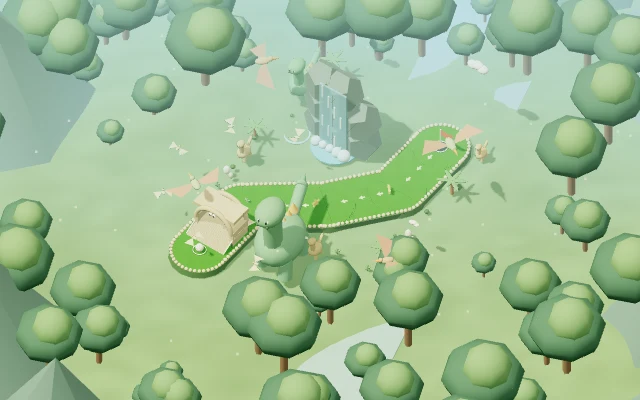
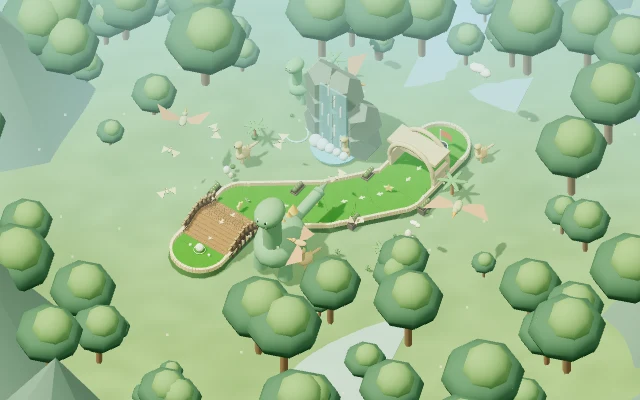
Refine course construction and prevent sideways bridge traversal

diff --git a/public/physics.js b/public/physics.js
@@ -3,27 +3,27 @@ export function movingBumpers(level,tick=0){
  return [...level.bumpers,...level.movers.map((m,i)=>({...m,x:m.x+Math.sin(tick*.018+i)*m.travel,y:m.y+Math.sin(tick*.011+i)*12}))];
 }
 export function nearestFairway(level,x,y){let best={distance:Infinity};for(let i=0;i<(level.path?.length||0)-1;i++){const a=level.path[i],b=level.path[i+1],dx=b.x-a.x,dy=b.y-a.y,t=Math.max(0,Math.min(1,((x-a.x)*dx+(y-a.y)*dy)/(dx*dx+dy*dy)));const px=a.x+t*dx,py=a.y+t*dy,distance=Math.hypot(x-px,y-py);if(distance<best.distance)best={x:px,y:py,distance,index:i,t,dx,dy}}return best}
-export function groundHeight(level,x,y){let height=0;for(const ramp of level.ramps||[]){if(x>=ramp.x&&x<=ramp.x+ramp.w&&y>=ramp.y&&y<=ramp.y+ramp.h)height=Math.max(height,Math.sin((y-ramp.y)/ramp.h*Math.PI)*ramp.height)}return height}
+export function groundHeight(level,x,y){let height=0;for(const ramp of level.ramps||[]){if(x>=ramp.x&&x<=ramp.x+ramp.w&&y>=ramp.y&&y<=ramp.y+ramp.h)height=Math.max(height,Math.sin((y-ramp.y)/ramp.h*Math.PI)**2*ramp.height)}return height}
 function clearToCup(ball,level){for(let i=1;i<=12;i++){const f=i/12,x=ball.x+(level.hole.x-ball.x)*f,y=ball.y+(level.hole.y-ball.y)*f;if(level.path&&nearestFairway(level,x,y).distance>level.width/2-12)return false;for(const w of level.walls)if(x>w.x-11&&x<w.x+w.w+11&&y>w.y-11&&y<w.y+w.h+11&&groundHeight(level,x,y)<30)return false}return true}
 export function advanceBall(ball,level,tick){
  const events=[];ball.portalCooldown=Math.max(0,(ball.portalCooldown||0)-1);ball.boostCooldown=Math.max(0,(ball.boostCooldown||0)-1);
  const speed=Math.hypot(ball.vx,ball.vy),steps=Math.max(1,Math.ceil(speed/4));
  for(let i=0;i<steps;i++){
   ball.x+=ball.vx/steps;ball.y+=ball.vy/steps;
-  if(level.path){const nearest=nearestFairway(level,ball.x,ball.y),limit=level.width/2-11;if(nearest.distance>limit){const nx=(ball.x-nearest.x)/nearest.distance,ny=(ball.y-nearest.y)/nearest.distance;ball.x=nearest.x+nx*limit;ball.y=nearest.y+ny*limit;const dot=ball.vx*nx+ball.vy*ny;if(dot>0){ball.vx-=1.65*dot*nx;ball.vy-=1.65*dot*ny;events.push('bounce')}}}
+  if(level.path){const nearest=nearestFairway(level,ball.x,ball.y),limit=level.width/2-12;if(nearest.distance>limit){const nx=(ball.x-nearest.x)/nearest.distance,ny=(ball.y-nearest.y)/nearest.distance;ball.x=nearest.x+nx*limit;ball.y=nearest.y+ny*limit;const dot=ball.vx*nx+ball.vy*ny;if(dot>0){ball.vx-=1.65*dot*nx;ball.vy-=1.65*dot*ny;events.push('bounce')}}}
   else{const bounds=level.bounds||{minX:49,maxX:451,minY:49,maxY:531};if(ball.x<bounds.minX){ball.x=bounds.minX;ball.vx=Math.abs(ball.vx)*.8}if(ball.x>bounds.maxX){ball.x=bounds.maxX;ball.vx=-Math.abs(ball.vx)*.8}if(ball.y<bounds.minY){ball.y=bounds.minY;ball.vy=Math.abs(ball.vy)*.8}if(ball.y>bounds.maxY){ball.y=bounds.maxY;ball.vy=-Math.abs(ball.vy)*.8}}
-  for(const w of level.walls){
-   const nx=Math.max(w.x,Math.min(ball.x,w.x+w.w)),ny=Math.max(w.y,Math.min(ball.y,w.y+w.h));let dx=ball.x-nx,dy=ball.y-ny,d=Math.hypot(dx,dy);
-   if(d<10&&groundHeight(level,ball.x,ball.y)<(w.height||25)+8){if(d===0){const side=[{d:Math.abs(ball.x-w.x),x:-1,y:0},{d:Math.abs(ball.x-w.x-w.w),x:1,y:0},{d:Math.abs(ball.y-w.y),x:0,y:-1},{d:Math.abs(ball.y-w.y-w.h),x:0,y:1}].sort((a,b)=>a.d-b.d)[0];dx=side.x;dy=side.y;d=1}
-    const ux=dx/d,uy=dy/d,dot=ball.vx*ux+ball.vy*uy;ball.x=nx+ux*10.1;ball.y=ny+uy*10.1;
+  for(const w of [...level.walls,...(level.ramps||[]).flatMap(r=>[{x:r.x-6,y:r.y,w:6,h:r.h,height:Infinity},{x:r.x+r.w,y:r.y,w:6,h:r.h,height:Infinity}])]){
+   let nx=Math.max(w.x,Math.min(ball.x,w.x+w.w)),ny=Math.max(w.y,Math.min(ball.y,w.y+w.h));let dx=ball.x-nx,dy=ball.y-ny,d=Math.hypot(dx,dy);
+   if(d<12&&groundHeight(level,ball.x,ball.y)<(w.height||25)+8){if(d===0){const side=[{d:Math.abs(ball.x-w.x),x:-1,y:0},{d:Math.abs(ball.x-w.x-w.w),x:1,y:0},{d:Math.abs(ball.y-w.y),x:0,y:-1},{d:Math.abs(ball.y-w.y-w.h),x:0,y:1}].sort((a,b)=>a.d-b.d)[0];dx=side.x;dy=side.y;d=1;nx=side.x<0?w.x:side.x>0?w.x+w.w:ball.x;ny=side.y<0?w.y:side.y>0?w.y+w.h:ball.y}
+    const ux=dx/d,uy=dy/d,dot=ball.vx*ux+ball.vy*uy;ball.x=nx+ux*12.1;ball.y=ny+uy*12.1;
     if(dot<0){ball.vx-=1.8*dot*ux;ball.vy-=1.8*dot*uy;events.push('bounce')}
    }
   }
   for(const o of movingBumpers(level,tick)){
    const dx=ball.x-o.x,dy=ball.y-o.y,d=Math.hypot(dx,dy);
-   if(d<o.r+10){const ux=d?dx/d:1,uy=d?dy/d:0,dot=ball.vx*ux+ball.vy*uy;ball.x=o.x+ux*(o.r+10.1);ball.y=o.y+uy*(o.r+10.1);if(dot<0){ball.vx-=1.95*dot*ux;ball.vy-=1.95*dot*uy;events.push('boing')}}
+   if(d<o.r+12){const ux=d?dx/d:1,uy=d?dy/d:0,dot=ball.vx*ux+ball.vy*uy;ball.x=o.x+ux*(o.r+12.1);ball.y=o.y+uy*(o.r+12.1);if(dot<0){ball.vx-=1.95*dot*ux;ball.vy-=1.95*dot*uy;events.push('boing')}}
   }
-  for(const spinner of level.spinners||[]){const a=tick*spinner.speed,ux=Math.cos(a),uy=Math.sin(a),dx=ball.x-spinner.x,dy=ball.y-spinner.y,along=Math.max(-spinner.length,Math.min(spinner.length,dx*ux+dy*uy));const nx=spinner.x+along*ux,ny=spinner.y+along*uy,ex=ball.x-nx,ey=ball.y-ny,d=Math.hypot(ex,ey);if(d<10+spinner.r){const normalX=d?ex/d:-uy,normalY=d?ey/d:ux,dot=ball.vx*normalX+ball.vy*normalY;ball.x=nx+normalX*(11+spinner.r);ball.y=ny+normalY*(11+spinner.r);if(dot<0){ball.vx-=1.5*dot*normalX;ball.vy-=1.5*dot*normalY;events.push('boing')}}}
+  for(const spinner of level.spinners||[]){const a=tick*spinner.speed,ux=Math.cos(a),uy=Math.sin(a),dx=ball.x-spinner.x,dy=ball.y-spinner.y,along=Math.max(-spinner.length,Math.min(spinner.length,dx*ux+dy*uy));const nx=spinner.x+along*ux,ny=spinner.y+along*uy,ex=ball.x-nx,ey=ball.y-ny,d=Math.hypot(ex,ey);if(d<12+spinner.r){const normalX=d?ex/d:-uy,normalY=d?ey/d:ux,dot=ball.vx*normalX+ball.vy*normalY;ball.x=nx+normalX*(12.1+spinner.r);ball.y=ny+normalY*(12.1+spinner.r);if(dot<0){ball.vx-=1.5*dot*normalX;ball.vy-=1.5*dot*normalY;events.push('boing')}}}
   for(const [index,pad] of level.pads.entries()){ball.hitPads??=[];if(!ball.hitPads.includes(index)&&!ball.boostCooldown&&Math.hypot(ball.x-pad.x,ball.y-pad.y)<pad.r){ball.vx=pad.vx;ball.vy=pad.vy;ball.boostCooldown=90;ball.hitPads.push(index);events.push('boost')}}
   if(!ball.portalCooldown&&level.portals.length){for(let n=0;n<level.portals.length;n++){const p=level.portals[n];if(Math.hypot(ball.x-p.x,ball.y-p.y)<19){const exit=level.portals[(n+1)%level.portals.length];ball.x=exit.x+27;ball.y=exit.y;ball.portalCooldown=100;events.push('portal');break}}}
   if(Math.hypot(ball.x-level.hole.x,ball.y-level.hole.y)<(level.easy?24:18)&&Math.hypot(ball.vx,ball.vy)<(level.easy?12:9)){ball.x=level.hole.x;ball.y=level.hole.y;ball.vx=ball.vy=0;return{done:true,stopped:true,events}}

diff --git a/public/world-environments.js b/public/world-environments.js
@@ -1,5 +1,5 @@
 import * as THREE from './vendor/three.js';
-import {nearestFairway} from './physics.js';
+import {nearestFairway,groundHeight} from './physics.js';
 import {pointAlong,courses} from './courses.js';
 const rngFor=seed=>()=>{seed|=0;seed=seed+0x6D2B79F5|0;let t=Math.imul(seed^seed>>>15,1|seed);t=t+Math.imul(t^t>>>7,61|t)^t;return((t^t>>>14)>>>0)/4294967296};
 function position(level,f,side=0){const p=pointAlong(level.path,f),near=nearestFairway(level,p.x,p.y),d=Math.hypot(near.dx,near.dy);return{x:p.x-near.dy/d*side-250,z:p.y+near.dx/d*side-290}}
@@ -11,12 +11,17 @@ export function buildFairway(w,level){
  for(let i=0;i<level.path.length-1;i++){
   const a=level.path[i],b=level.path[i+1],length=Math.hypot(b.x-a.x,b.y-a.y),angle=Math.atan2(b.x-a.x,b.y-a.y),g=w.group((a.x+b.x)/2-250,0,(a.y+b.y)/2-290);g.rotation.y=angle;
   w.box(0,-5,0,level.width+8,18,length,w.palette[2],g);const top=w.box(0,3,0,level.width,6,length,turf,g);top.material=grass;
-  for(let s=0;s<=length;s+=13)for(const side of [-1,1]){const t=s/length,x=a.x+(b.x-a.x)*t+(b.y-a.y)/length*level.width/2*side,y=a.y+(b.y-a.y)*t-(b.x-a.x)/length*level.width/2*side;if(nearestFairway(level,x,y).distance>level.width/2-2)stones.push({x:x-250,y:9,z:y-290,s:1})}
+  for(let s=0;s<=length;s+=9)for(const side of [-1,1]){const t=s/length,x=a.x+(b.x-a.x)*t+(b.y-a.y)/length*level.width/2*side,y=a.y+(b.y-a.y)*t-(b.x-a.x)/length*level.width/2*side;if(nearestFairway(level,x,y).distance>level.width/2-2)stones.push({x:x-250,y:11,z:y-290,rot:angle,sx:1,sy:1,sz:1})}
  }
- for(const p of level.path){w.cylinder(p.x-250,-4,p.y-290,level.width/2+4,level.width/2+8,18,w.palette[2]);const top=w.cylinder(p.x-250,3,p.y-290,level.width/2,level.width/2,6,turf);top.material=grass;for(let i=0;i<40;i++){const a=i*Math.PI/20,x=p.x+Math.cos(a)*level.width/2,y=p.y+Math.sin(a)*level.width/2;if(nearestFairway(level,x,y).distance>level.width/2-2)stones.push({x:x-250,y:9,z:y-290,s:1})}}
- instances(w,new THREE.SphereGeometry(5.5,8,6),edge,stones);
+ for(const p of level.path){w.cylinder(p.x-250,-4,p.y-290,level.width/2+4,level.width/2+8,18,w.palette[2]);const top=w.cylinder(p.x-250,3,p.y-290,level.width/2,level.width/2,6,turf);top.material=grass;for(let i=0;i<56;i++){const a=i*Math.PI/28,x=p.x+Math.cos(a)*level.width/2,y=p.y+Math.sin(a)*level.width/2;if(nearestFairway(level,x,y).distance>level.width/2-2)stones.push({x:x-250,y:11,z:y-290,rot:-a,sx:1,sy:1,sz:1})}}
+ instances(w,new THREE.BoxGeometry(8,14,9),edge,stones);
+ // Recessed tee markers, distance plates, and planting at each bend.
+ for(const [index,p] of level.path.entries()){
+  if(index===0)for(const side of [-1,1])w.cylinder(p.x+side*32-250,8,p.y-290,4,4,4,'#f3eee0',w.root,12);
+  if(index>0&&index<level.path.length-1){const g=w.group(p.x-250,0,p.y-290);for(const side of [-1,1]){w.box(side*(level.width/2+18),1,0,22,18,44,'#716b5d',g);w.box(side*(level.width/2+18),11,0,18,3,40,'#483e2d',g);for(let j=0;j<4;j++){w.sphere(side*(level.width/2+18),17,j*9-14,7,'#66804c',g);w.sphere(side*(level.width/2+18),23,j*9-14,2,index%2?'#e5c36c':'#b78da9',g)}}}
+ }
  // Ground arrows mark the next bend, with no compulsory shortcut or narrow jump.
- for(let i=1;i<level.path.length;i++){const a=level.path[i-1],b=level.path[i],dx=b.x-a.x,dy=b.y-a.y,length=Math.hypot(dx,dy);for(let f=.25;f<.9;f+=.25){const g=w.group(a.x+dx*f-250,7,a.y+dy*f-290);g.rotation.y=Math.atan2(dx,dy);const shape=new THREE.Shape();shape.moveTo(0,-9);shape.lineTo(-8,3);shape.lineTo(-3,3);shape.lineTo(-3,11);shape.lineTo(3,11);shape.lineTo(3,3);shape.lineTo(8,3);shape.closePath();const arrow=w.mesh(new THREE.ShapeGeometry(shape),'#f4e6a4',g);arrow.rotation.x=-Math.PI/2;arrow.rotation.z=Math.PI;arrow.castShadow=false}}
+ for(let i=1;i<level.path.length;i++){const a=level.path[i-1],b=level.path[i],dx=b.x-a.x,dy=b.y-a.y,length=Math.hypot(dx,dy);for(let f=.25;f<.9;f+=.25){const g=w.group(a.x+dx*f-250,7+groundHeight(level,a.x+dx*f,a.y+dy*f),a.y+dy*f-290);g.rotation.y=Math.atan2(dx,dy);const shape=new THREE.Shape();shape.moveTo(0,-9);shape.lineTo(-8,3);shape.lineTo(-3,3);shape.lineTo(-3,11);shape.lineTo(3,11);shape.lineTo(3,3);shape.lineTo(8,3);shape.closePath();const arrow=w.mesh(new THREE.ShapeGeometry(shape),'#f4e6a4',g);arrow.rotation.x=-Math.PI/2;arrow.rotation.z=Math.PI;arrow.castShadow=false}}
 }
 function terrain(w,level,id){
  const rnd=rngFor(id*541+77),snow=id===13,space=id===7,night=[2,7,11].includes(id);const ocean=[4,9].includes(id);const base=snow?'#dce9ed':id===6?'#846f65':night?'#5c6273':ocean?'#82bec0':'#7ca36b';

diff --git a/public/world3d.js b/public/world3d.js
@@ -47,8 +47,21 @@ export class World3D {
  }
  buildCourseFeatures(level,id){
   // A wide, arched bridge is both an easier route over walls and a real 3D surface.
-  for(const ramp of level.ramps||[]){const positions=[],indices=[];const segments=20;for(let i=0;i<=segments;i++){const y=ramp.y+ramp.h*i/segments,h=6+Math.sin(i/segments*Math.PI)*ramp.height;positions.push(ramp.x-250,h,y-290,ramp.x+ramp.w-250,h,y-290);if(i<segments){const a=i*2;indices.push(a,a+1,a+2,a+1,a+3,a+2)}}const geo=new THREE.BufferGeometry();geo.setAttribute('position',new THREE.Float32BufferAttribute(positions,3));geo.setIndex(indices);geo.computeVertexNormals();const m=this.mesh(geo,id===13?'#e5f3ee':id===1||id===8?'#e8b85f':'#e9d5a0');m.material.side=THREE.DoubleSide;for(const side of [0,1])for(let i=0;i<segments;i++){const y0=ramp.y+ramp.h*i/segments,y1=ramp.y+ramp.h*(i+1)/segments,h0=10+Math.sin(i/segments*Math.PI)*ramp.height,h1=10+Math.sin((i+1)/segments*Math.PI)*ramp.height,x=ramp.x+side*ramp.w-250;this.link([x,h0,y0-290],[x,h1,y1-290],2,'#fff0c5')}for(const y of [ramp.y+ramp.h*.25,ramp.y+ramp.h*.75])for(const side of [0,1]){const h=groundHeight(level,ramp.x+1,y);this.cylinder(ramp.x+side*ramp.w-250,h/2,y-290,3,3,h,this.palette[2],this.root,8)}}
-  for(const tunnel of level.tunnels||[]){const g=this.group(tunnel.x+tunnel.w/2-250,0,tunnel.y+tunnel.h/2-290),color=id===2?'#a495c1':id===13?'#e3f2ed':id===9?'#a5cfc2':'#d4c394';for(const side of [-1,1])this.box(side*(tunnel.w/2-5),28,0,12,56,tunnel.h,color,g);const arch=this.mesh(new THREE.TorusGeometry(tunnel.w/2-5,7,8,24,Math.PI),color,g);arch.position.set(0,50,tunnel.h/2);const back=arch.clone();back.geometry=arch.geometry;back.position.z=-tunnel.h/2;g.add(back);this.box(0,tunnel.height+24,0,tunnel.w+8,10,tunnel.h,color,g);this.eyes(g,0,tunnel.height+23,tunnel.h/2+5,5);this.friendly(g,id===2?'SPOOKY SHORTCUT!':'THROUGH THE TUNNEL!')}
+  for(const r of level.ramps||[]){
+   const segments=40,positions=[],indices=[],height=t=>6+Math.sin(t*Math.PI)**2*r.height;
+   for(let i=0;i<=segments;i++){const t=i/segments;positions.push(r.x-250,height(t),r.y+r.h*t-290,r.x+r.w-250,height(t),r.y+r.h*t-290);if(i<segments){const a=i*2;indices.push(a,a+2,a+1,a+1,a+2,a+3)}}
+   const geo=new THREE.BufferGeometry();geo.setAttribute('position',new THREE.Float32BufferAttribute(positions,3));geo.setIndex(indices);geo.computeVertexNormals();this.mesh(geo,'#9a744b',this.root,{side:THREE.DoubleSide,roughness:.92});
+   for(let i=0;i<segments;i++){const t=(i+.5)/segments,y=r.y+r.h*t-290,h=height(t),slope=Math.atan(Math.PI*r.height/r.h*Math.sin(2*Math.PI*t));
+    const plank=this.box(r.x+r.w/2-250,h-1.5,y,r.w,3,r.h/segments-.5,i%3?'#aa8456':'#967147');plank.rotation.x=slope;
+    for(const side of [0,1]){const x=r.x+side*r.w-250,y0=r.y+r.h*i/segments-290,y1=r.y+r.h*(i+1)/segments-290;
+     this.link([x,height(i/segments)+5,y0],[x,height((i+1)/segments)+5,y1],5,'#62533f');
+     this.link([x,height(i/segments)+28,y0],[x,height((i+1)/segments)+28,y1],3,'#bb9b6c');
+     if(i%5===0){this.box(x,h+15,y,6,34,6,'#796044');this.sphere(x,h+33,y,4,'#b7a17c');this.cylinder(x,h/2-3,y,5,6,h+6,'#66523c',this.root,8)}
+    }
+   }
+   for(const t of [.28,.72])this.box(r.x+r.w/2-250,height(t)-9,r.y+r.h*t-290,r.w+12,12,9,'#66523c');
+  }
+  for(const tunnel of level.tunnels||[]){const g=this.group(tunnel.x+tunnel.w/2-250,0,tunnel.y+tunnel.h/2-290),color=id===2?'#a495c1':id===13?'#e3f2ed':id===9?'#a5cfc2':'#d4c394';for(const side of [-1,1])this.box(side*(tunnel.w/2-5),28,0,12,56,tunnel.h,color,g);const arch=this.mesh(new THREE.TorusGeometry(tunnel.w/2-5,7,8,24,Math.PI),color,g);arch.position.set(0,50,tunnel.h/2);const back=arch.clone();back.geometry=arch.geometry;back.position.z=-tunnel.h/2;g.add(back);this.box(0,tunnel.height+24,0,tunnel.w+8,10,tunnel.h,color,g);this.friendly(g,id===2?'SPOOKY SHORTCUT!':'THROUGH THE TUNNEL!')}
   this.spinnerMeshes=(level.spinners||[]).map(spinner=>{this.cylinder(spinner.x-250,18,spinner.y-290,8,11,26,'#dcc38e');const g=this.group(spinner.x-250,19,spinner.y-290);this.box(0,0,0,spinner.length*2,16,spinner.r*2,id===3?'#bb9ad4':id===5?'#e6a0b7':'#eeb775',g);this.sphere(0,8,0,9,'#fff1c4',g);for(const side of [-1,1])this.sphere(side*(spinner.length-4),0,0,9,'#fff0cf',g);return g});
 
  }

diff --git a/server.js b/server.js
@@ -18,7 +18,7 @@ io.on('connection',socket=>{
  });
  socket.on('begin',()=>{const r=rooms.get(socket.data.code);if(r&&r.players[0]?.id===socket.id){r.started=true;broadcast(r)}});
  socket.on('shot',({vx,vy}={})=>{const r=rooms.get(socket.data.code);if(!r?.started||r.players[r.turn]?.id!==socket.id||r.busy||r.players[r.turn].done)return;if(!Number.isFinite(vx)||!Number.isFinite(vy)||Math.hypot(vx,vy)>17)return;r.busy=true;r.players[r.turn].strokes++;io.to(r.code).emit('shot',{vx,vy,index:r.turn,phase:Math.floor(Date.now()/(1000/60))})});
- socket.on('settled',({x,y,done,stars}={})=>{const r=rooms.get(socket.data.code);if(!r?.busy||r.players[r.turn]?.id!==socket.id||!Number.isFinite(x)||!Number.isFinite(y))return;const l=layout(r.course),near=nearestFairway(l,x,y),limit=l.width/2-11;if(near.distance>limit){x=near.x+(x-near.x)/near.distance*limit;y=near.y+(y-near.y)/near.distance*limit}r.positions[r.turn]={x,y};const p=r.players[r.turn];p.done=!!done;p.stars=Array.isArray(stars)?[...new Set(stars.filter(n=>Number.isInteger(n)&&n>=0&&n<3))]:[];r.busy=false;for(let n=1;n<=r.players.length;n++){const t=(r.turn+n)%r.players.length;if(!r.players[t].done){r.turn=t;break}}broadcast(r)});
+ socket.on('settled',({x,y,done,stars}={})=>{const r=rooms.get(socket.data.code);if(!r?.busy||r.players[r.turn]?.id!==socket.id||!Number.isFinite(x)||!Number.isFinite(y))return;const l=layout(r.course),near=nearestFairway(l,x,y),limit=l.width/2-12;if(near.distance>limit){x=near.x+(x-near.x)/near.distance*limit;y=near.y+(y-near.y)/near.distance*limit}r.positions[r.turn]={x,y};const p=r.players[r.turn];p.done=!!done;p.stars=Array.isArray(stars)?[...new Set(stars.filter(n=>Number.isInteger(n)&&n>=0&&n<3))]:[];r.busy=false;for(let n=1;n<=r.players.length;n++){const t=(r.turn+n)%r.players.length;if(!r.players[t].done){r.turn=t;break}}broadcast(r)});
  socket.on('next-hole',()=>{const r=rooms.get(socket.data.code);if(!r?.full||r.players[0]?.id!==socket.id||!r.players.every(p=>p.done)||r.course>=courses.length-1)return;for(const p of r.players){p.total+=p.strokes;p.scorecard.push(p.strokes)}r.course++;resetHole(r);broadcast(r)});
  socket.on('reset-ball',()=>{const r=rooms.get(socket.data.code);if(!r?.started||r.busy||r.players[r.turn]?.id!==socket.id||r.players[r.turn].done)return;r.positions[r.turn]={...layout(r.course).start};broadcast(r)});
  socket.on('disconnect',()=>{const r=rooms.get(socket.data.code);if(!r)return;const i=r.players.findIndex(p=>p.id===socket.id);if(i<0)return;if(i===r.turn)r.busy=false;r.players.splice(i,1);r.positions.splice(i,1);if(!r.players.length)rooms.delete(r.code);else{if(i<r.turn)r.turn--;r.turn%=r.players.length;if(r.players[r.turn].done){const next=r.players.findIndex(p=>!p.done);if(next>=0)r.turn=next}broadcast(r)}});

diff --git a/tests/physics.test.js b/tests/physics.test.js
@@ -8,3 +8,33 @@ test('space portals transport the ball and have an anti-loop cooldown',()=>{cons
 test('Little Golfer helps a near miss while Classic leaves it alone',()=>{const l=layout(0),classic=layout(0);classic.easy=false;const b={x:l.hole.x+39,y:l.hole.y,vx:.2,vy:0};assert.equal(run({...b},l).result.done,true);assert.equal(run({...b},classic).result.done,false)});
 test('raised bridge surfaces match the physical ramp height',()=>{const l=layout(0),r=l.ramps[0];assert.ok(r);assert.ok(groundHeight(l,r.x+r.w/2,r.y+r.h/2)>20);assert.equal(groundHeight(l,l.start.x,l.start.y),0)});
 test('dynamic bumpers really move, and all holes keep optional star rewards',()=>{for(let id=0;id<18;id++){const l=layout(id);assert.equal(l.stars.length,3);if(l.movers.length)assert.notDeepEqual(movingBumpers(l,0),movingBumpers(l,100))}});
+test('bridge side rails block lateral entry and exit at every raised deck',()=>{
+ for(let id=0;id<18;id++)for(const r of layout(id).ramps){
+  const l=layout(id);l.movers=[];l.spinners=[];l.portals=[];l.pads=[];
+  for(const side of [-1,1])for(const speed of [2,16]){
+   const edge=side<0?r.x:r.x+r.w;
+   const inside={x:edge-side*18,y:r.y+r.h/2,vx:side*speed,vy:0};
+   for(let t=0;t<12;t++)advanceBall(inside,l,t);
+   assert.ok(side<0?inside.x>=r.x+12:inside.x<=r.x+r.w-12,`hole ${id}: ball escaped bridge`);
+   // Isolate the bridge from the outer fairway so entry is tested from both sides.
+   const isolated={...l,path:null,bounds:{minX:-1000,maxX:2000,minY:-1000,maxY:2000},walls:[]};
+   const outside={x:edge+side*20,y:r.y+r.h/2,vx:-side*speed,vy:0};
+   for(let t=0;t<12;t++)advanceBall(outside,isolated,t);
+   assert.ok(side<0?outside.x<r.x:outside.x>r.x+r.w,`hole ${id}: entered through side`);
+   assert.equal(groundHeight(isolated,outside.x,outside.y),0);
+  }
+  const center=r.x+r.w/2;
+  assert.ok(groundHeight(l,center,r.y+.01)<.001,'approach has no sudden height step');
+ }
+});
+test('bridges remain open end to end, with tunnels on separate straights',()=>{
+ for(let id=0;id<18;id++){
+  const l=layout(id);l.movers=[];l.spinners=[];l.portals=[];l.pads=[];
+  l.hole={x:-900,y:-900};
+  for(const r of l.ramps){const b={x:r.x+r.w/2,y:r.y-16,vx:0,vy:10};let crossed=false;
+   for(let t=0;t<300;t++){advanceBall(b,l,t);if(b.y>r.y+r.h+12){crossed=true;break}}
+   assert.ok(crossed,`hole ${id}: entrance or exit blocked`);
+   for(const tunnel of l.tunnels)assert.ok(tunnel.x+tunnel.w<=r.x||tunnel.x>=r.x+r.w||tunnel.y+tunnel.h<=r.y||tunnel.y>=r.y+r.h);
+  }
+ }
+});

diff --git a/public/sw.js b/public/sw.js
@@ -1,1 +1,1 @@
-const CACHE='wild-putt-worlds-v4';const ASSETS=['/','/style.css','/app.js','/courses.js','/physics.js','/world3d.js','/world-environments.js','/vendor/three.js','/icon.svg','/icon-192.png','/icon-512.png','/manifest.webmanifest','/fonts/outfit.woff2','/fonts/dm-sans.woff2',...Array.from({length:18},(_,id)=>`/previews/course-${id}.webp`)];self.addEventListener('install',event=>{event.waitUntil(caches.open(CACHE).then(c=>c.addAll(ASSETS)));self.skipWaiting()});self.addEventListener('activate',event=>event.waitUntil(caches.keys().then(keys=>Promise.all(keys.filter(k=>k!==CACHE).map(k=>caches.delete(k)))).then(()=>self.clients.claim())));self.addEventListener('fetch',event=>{if(event.request.method!=='GET'||new URL(event.request.url).origin!==location.origin||event.request.url.includes('/socket.io/'))return;event.respondWith(fetch(event.request).then(res=>{if(res.ok){const copy=res.clone();caches.open(CACHE).then(c=>c.put(event.request,copy))}return res}).catch(()=>caches.match(event.request)))});
+const CACHE='wild-putt-worlds-v5';const ASSETS=['/','/style.css','/app.js','/courses.js','/physics.js','/world3d.js','/world-environments.js','/vendor/three.js','/icon.svg','/icon-192.png','/icon-512.png','/manifest.webmanifest','/fonts/outfit.woff2','/fonts/dm-sans.woff2',...Array.from({length:18},(_,id)=>`/previews/course-${id}.webp`)];self.addEventListener('install',event=>{event.waitUntil(caches.open(CACHE).then(c=>c.addAll(ASSETS)));self.skipWaiting()});self.addEventListener('activate',event=>event.waitUntil(caches.keys().then(keys=>Promise.all(keys.filter(k=>k!==CACHE).map(k=>caches.delete(k)))).then(()=>self.clients.claim())));self.addEventListener('fetch',event=>{if(event.request.method!=='GET'||new URL(event.request.url).origin!==location.origin||event.request.url.includes('/socket.io/'))return;event.respondWith(fetch(event.request).then(res=>{if(res.ok){const copy=res.clone();caches.open(CACHE).then(c=>c.put(event.request,copy))}return res}).catch(()=>caches.match(event.request)))});

diff --git a/public/courses.js b/public/courses.js
@@ -48,12 +48,14 @@ export function layout(id){
  // An optional moving toy sits off-center, always leaving a generous way around.
  if(![0,13,15].includes(id))level.movers=[{x:midpoint.x+38,y:midpoint.y+15,r:19,travel:22}];
  if([1,3,5,8,12,16,17].includes(id))level.spinners=[{x:midpoint.x,y:midpoint.y,length:35,r:6,speed:.006}];
- if([0,2,4,9,10,13,15].includes(id)){
-  const p={x:(path[0].x+path[1].x)/2,y:(path[0].y+path[1].y)/2};level.tunnels=[{x:p.x-65,y:p.y-35,w:130,h:70,height:76}];
-  for(const tunnel of level.tunnels)level.walls.push({x:tunnel.x,y:tunnel.y,w:10,h:tunnel.h,height:68},{x:tunnel.x+tunnel.w-10,y:tunnel.y,w:10,h:tunnel.h,height:68});
- }
  // Hills and bridges line up with vertical stretches of the actual fairway.
- for(let i=0;i<path.length-1;i++){const a=path[i],b=path[i+1];if(Math.abs(a.x-b.x)<25&&Math.abs(a.y-b.y)>170){level.ramps=[{x:a.x-64,y:Math.min(a.y,b.y)+25,w:128,h:Math.abs(a.y-b.y)-50,height:26+id%3*8}];break}}
+ for(let i=0;i<path.length-1;i++){const a=path[i],b=path[i+1];if(Math.abs(a.x-b.x)<25&&Math.abs(a.y-b.y)>170){level.ramps=[{x:a.x-79,y:Math.min(a.y,b.y)+25,w:158,h:Math.abs(a.y-b.y)-50,height:26+id%3*8}];break}}
+ // Tunnels occupy a separate straight, with entrances aligned to the shot.
+ if([0,2,4,9,10,13,15].includes(id))for(let i=path.length-2;i>=0;i--){const a=path[i],b=path[i+1],y=(a.y+b.y)/2;
+  if(a.x===b.x&&Math.abs(a.y-b.y)>170&&!level.ramps.some(r=>Math.abs(a.x-r.x-r.w/2)<80&&y>r.y-40&&y<r.y+r.h+40)){
+   const t={x:a.x-79,y:y-35,w:158,h:70,height:76};level.tunnels.push(t);level.walls.push({x:t.x,y:t.y,w:10,h:t.h,height:90},{x:t.x+t.w-10,y:t.y,w:10,h:t.h,height:90});break;
+  }
+ }
  if([6,7,11,14,17].includes(id)){const a=pointAlong(path,.3),b=pointAlong(path,.67);level.portals=[{...a},{...b}]}
  if([1,5,7,12,16].includes(id))level.pads=[{x:midpoint.x,y:midpoint.y+30,r:18,vx:dx/d*5,vy:dy/d*5}];
  return level;

diff --git a/tests/game.spec.js b/tests/game.spec.js
@@ -1,6 +1,6 @@
 import {test,expect} from '@playwright/test';
 async function project(page,x,y){return page.evaluate(async({x,y})=>(await import('/world3d.js')).projectPoint(x,y),{x,y})}
-async function ready(page){await expect(page.locator('#game')).toHaveAttribute('data-renderer','3d');await page.waitForTimeout(500)}
+async function ready(page){await expect(page.locator('#game')).toHaveAttribute('data-renderer','3d',{timeout:20000});await page.waitForTimeout(500)}
 async function mapView(page){if(await page.locator('canvas').getAttribute('data-camera')!=='map')await page.locator('#camera-toggle').click();await expect(page.locator('canvas')).toHaveAttribute('data-camera','map');await page.waitForTimeout(100)}
 async function shoot(page,x,y,dx,dy){const from=await project(page,x,y),to=await project(page,x-dx,y-dy);await page.mouse.move(from.x,from.y);await page.mouse.down();await page.mouse.move(to.x,to.y,{steps:5});await page.mouse.up()}
 test('18-hole clubhouse, favorites and shared-device turns work',async({page})=>{

diff --git a/README.md b/README.md
@@ -54,7 +54,7 @@ The new standalone game is `downloads/Wild-Putt.html`. It embeds its graphics en
 
 ### Little Golfer mode
 
-Little Golfer is the default. It offers a larger cup and gently guides slow near misses into the hole when the path is clear. There are no penalties or stroke limits. Wide arched bridges provide a route over obstacles, and several worlds have roomy tunnels and slow rotating sweepers. Optional stars and shortcuts add challenge without blocking progress. Choose Classic in the start dialog for a smaller cup and no near-cup help. A live room uses its host’s mode.
+Little Golfer is the default. It offers a larger cup and gently guides slow near misses into the hole when the path is clear. There are no penalties or stroke limits. Wide timber bridges have solid side rails and smooth, level approaches, and several worlds have roomy tunnels and slow rotating sweepers. Optional stars and shortcuts add challenge without blocking progress. Choose Classic in the start dialog for a smaller cup and no near-cup help. A live room uses its host’s mode.
 
 ## Host on your own PC
 
@@ -63,7 +63,7 @@ Install Node.js LTS (22 or newer), extract the source archive, and double-click 
 The underlying command is `npm run host`. LAN browser play and live rooms work over the home-network HTTP address. HTTPS hosting is needed for installable/offline phone app features. See `PLAY-ON-YOUR-PC.txt` for family setup instructions.
 
 
-## World Tour (version 3)
+## World Tour (version 4)
 
 Play a full 18-hole round through 18 different winding fairways, with scores carried between holes. Each fairway is surrounded by a full 3D environment: forest valleys, islands, a brick city, a spooky village, a candy park, a volcano, outer space, an underwater reef, snowfields, a dragon playground, jungle waterfalls, a carnival and the finale celebration. Dinosaur worlds feature flying pterosaurs and flocks of birds, roaming dinosaurs, forest mountains and waterfalls. There are now three additional worlds: Dragon’s Playground, Waterfall Wonder, and Carnival Chaos.
 
@@ -72,3 +72,5 @@ The default Ball POV camera follows from behind the ball. Pull down from the bal
 Full rounds work with shared-device players and live rooms. The live-room host advances to the next hole once everyone finishes. Practice mode starts any individual hole. Little Golfer remains the default: wide fairways, gentle rails, free resets, big cups, near-miss help, and no time pressure.
 
 The scene renderer adapts resolution for software graphics, disposes old scene geometry/materials/textures and instancing buffers between holes, and honors reduced-motion preferences. Ambient and scenery animations pause under reduced motion; ball movement and camera follow remain available. All assets are bundled locally.
+
+Version 4 refines the tracks with timber planks, bridge supports and handrails, stone curbs, tee markers, and planted corners. Bridge side collisions prevent lateral entry or exit; tunnels occupy separate aligned straights. Regression tests cover both bridge sides at multiple shot speeds and open entrances on every bridge.
